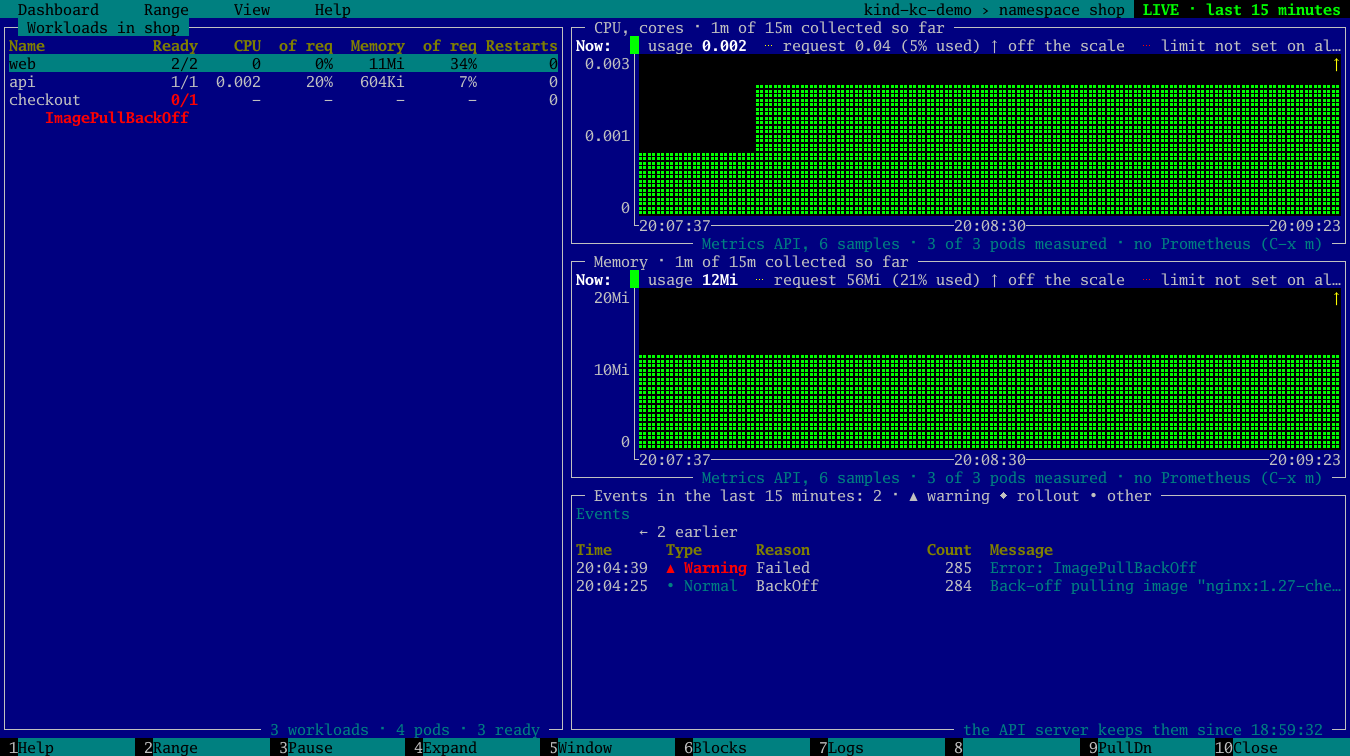
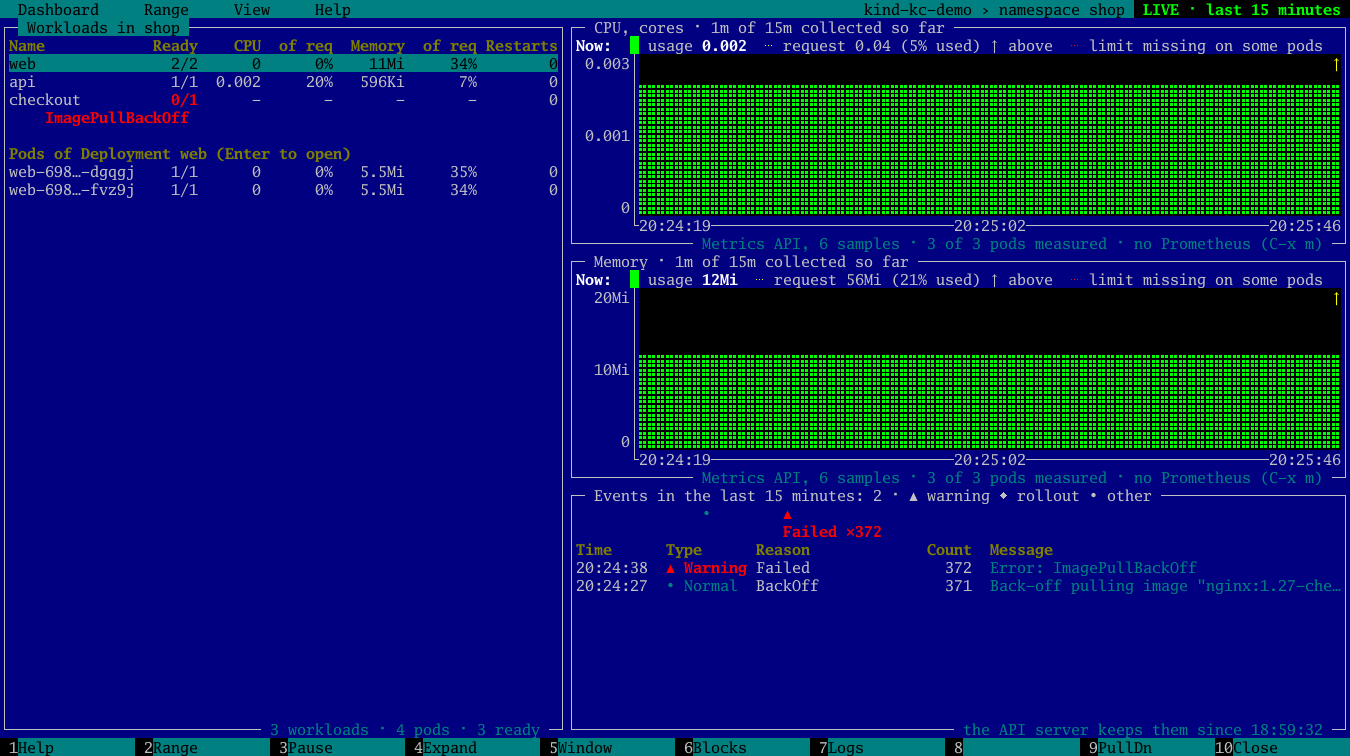
docs: refresh ADR 0321 and the dashboard screenshots

diff --git a/docs/adr/0321-dashboard-native-look.md b/docs/adr/0321-dashboard-native-look.md
@@ -38,20 +38,20 @@ The screen of a namespace on a kind cluster, a minute after opening:
 ```
   Dashboard     Range     View     Help                                                         kind-kc-demo › namespace shop  LIVE · last 15 minutes
 ┌─ Workloads in shop ─────────────────────────────────────────┐┌─ CPU, cores · 1m of 15m collected so far ───────────────────────────────────────────┐
-│Name            Ready    CPU  of req  Memory  of req Restarts││Now:  █ usage 0.002  ┄ request 0.04 (5% used) ↑ off the scale  ┄ limit not set on al…│
+│Name            Ready    CPU  of req  Memory  of req Restarts││Now:  █ usage 0.002  ┄ request 0.04 (5% used) ↑ above  ┄ limit missing on some pods  │
 │web               2/2      0      0%    11Mi     34%        0││ 0.003│                                                                             ↑│
-│api               1/1  0.002     20%   604Ki      7%        0││      │             ⣀⣀⣀⣀⣀⣀⣀⣀⣀⣀⣀⣀⣀⣀⣀⣀⣀⣀⣀⣀⣀⣀⣀⣀⣀⣀⣀⣀⣀⣀⣀⣀⣀⣀⣀⣀⣀⣀⣀⣀⣀⣀⣀⣀⣀⣀⣀⣀⣀⣀⣀⣀⣀⣀⣀⣀⣀⣀⣀⣀⣀⣀⣀⣀⣀│
-│checkout          0/1      -       -       -       -        0││      │             ⣿⣿⣿⣿⣿⣿⣿⣿⣿⣿⣿⣿⣿⣿⣿⣿⣿⣿⣿⣿⣿⣿⣿⣿⣿⣿⣿⣿⣿⣿⣿⣿⣿⣿⣿⣿⣿⣿⣿⣿⣿⣿⣿⣿⣿⣿⣿⣿⣿⣿⣿⣿⣿⣿⣿⣿⣿⣿⣿⣿⣿⣿⣿⣿⣿│
-│  ⚠ ImagePullBackOff                                         ││      │             ⣿⣿⣿⣿⣿⣿⣿⣿⣿⣿⣿⣿⣿⣿⣿⣿⣿⣿⣿⣿⣿⣿⣿⣿⣿⣿⣿⣿⣿⣿⣿⣿⣿⣿⣿⣿⣿⣿⣿⣿⣿⣿⣿⣿⣿⣿⣿⣿⣿⣿⣿⣿⣿⣿⣿⣿⣿⣿⣿⣿⣿⣿⣿⣿⣿│
-│                                                             ││ 0.001│             ⣿⣿⣿⣿⣿⣿⣿⣿⣿⣿⣿⣿⣿⣿⣿⣿⣿⣿⣿⣿⣿⣿⣿⣿⣿⣿⣿⣿⣿⣿⣿⣿⣿⣿⣿⣿⣿⣿⣿⣿⣿⣿⣿⣿⣿⣿⣿⣿⣿⣿⣿⣿⣿⣿⣿⣿⣿⣿⣿⣿⣿⣿⣿⣿⣿│
-│                                                             ││      │⣤⣤⣤⣤⣤⣤⣤⣤⣤⣤⣤⣤⣤⣿⣿⣿⣿⣿⣿⣿⣿⣿⣿⣿⣿⣿⣿⣿⣿⣿⣿⣿⣿⣿⣿⣿⣿⣿⣿⣿⣿⣿⣿⣿⣿⣿⣿⣿⣿⣿⣿⣿⣿⣿⣿⣿⣿⣿⣿⣿⣿⣿⣿⣿⣿⣿⣿⣿⣿⣿⣿⣿⣿⣿⣿⣿⣿⣿│
-│                                                             ││      │⣿⣿⣿⣿⣿⣿⣿⣿⣿⣿⣿⣿⣿⣿⣿⣿⣿⣿⣿⣿⣿⣿⣿⣿⣿⣿⣿⣿⣿⣿⣿⣿⣿⣿⣿⣿⣿⣿⣿⣿⣿⣿⣿⣿⣿⣿⣿⣿⣿⣿⣿⣿⣿⣿⣿⣿⣿⣿⣿⣿⣿⣿⣿⣿⣿⣿⣿⣿⣿⣿⣿⣿⣿⣿⣿⣿⣿⣿│
-│                                                             ││      │⣿⣿⣿⣿⣿⣿⣿⣿⣿⣿⣿⣿⣿⣿⣿⣿⣿⣿⣿⣿⣿⣿⣿⣿⣿⣿⣿⣿⣿⣿⣿⣿⣿⣿⣿⣿⣿⣿⣿⣿⣿⣿⣿⣿⣿⣿⣿⣿⣿⣿⣿⣿⣿⣿⣿⣿⣿⣿⣿⣿⣿⣿⣿⣿⣿⣿⣿⣿⣿⣿⣿⣿⣿⣿⣿⣿⣿⣿│
+│api               1/1  0.002     20%   596Ki      7%        0││      │⣀⣀⣀⣀⣀⣀⣀⣀⣀⣀⣀⣀⣀⣀⣀⣀⣀⣀⣀⣀⣀⣀⣀⣀⣀⣀⣀⣀⣀⣀⣀⣀⣀⣀⣀⣀⣀⣀⣀⣀⣀⣀⣀⣀⣀⣀⣀⣀⣀⣀⣀⣀⣀⣀⣀⣀⣀⣀⣀⣀⣀⣀⣀⣀⣀⣀⣀⣀⣀⣀⣀⣀⣀⣀⣀⣀⣀⣀│
+│checkout          0/1      -       -       -       -        0││      │⣿⣿⣿⣿⣿⣿⣿⣿⣿⣿⣿⣿⣿⣿⣿⣿⣿⣿⣿⣿⣿⣿⣿⣿⣿⣿⣿⣿⣿⣿⣿⣿⣿⣿⣿⣿⣿⣿⣿⣿⣿⣿⣿⣿⣿⣿⣿⣿⣿⣿⣿⣿⣿⣿⣿⣿⣿⣿⣿⣿⣿⣿⣿⣿⣿⣿⣿⣿⣿⣿⣿⣿⣿⣿⣿⣿⣿⣿│
+│  ⚠ ImagePullBackOff                                         ││      │⣿⣿⣿⣿⣿⣿⣿⣿⣿⣿⣿⣿⣿⣿⣿⣿⣿⣿⣿⣿⣿⣿⣿⣿⣿⣿⣿⣿⣿⣿⣿⣿⣿⣿⣿⣿⣿⣿⣿⣿⣿⣿⣿⣿⣿⣿⣿⣿⣿⣿⣿⣿⣿⣿⣿⣿⣿⣿⣿⣿⣿⣿⣿⣿⣿⣿⣿⣿⣿⣿⣿⣿⣿⣿⣿⣿⣿⣿│
+│                                                             ││ 0.001│⣿⣿⣿⣿⣿⣿⣿⣿⣿⣿⣿⣿⣿⣿⣿⣿⣿⣿⣿⣿⣿⣿⣿⣿⣿⣿⣿⣿⣿⣿⣿⣿⣿⣿⣿⣿⣿⣿⣿⣿⣿⣿⣿⣿⣿⣿⣿⣿⣿⣿⣿⣿⣿⣿⣿⣿⣿⣿⣿⣿⣿⣿⣿⣿⣿⣿⣿⣿⣿⣿⣿⣿⣿⣿⣿⣿⣿⣿│
+│Pods of Deployment web (Enter to open)                       ││      │⣿⣿⣿⣿⣿⣿⣿⣿⣿⣿⣿⣿⣿⣿⣿⣿⣿⣿⣿⣿⣿⣿⣿⣿⣿⣿⣿⣿⣿⣿⣿⣿⣿⣿⣿⣿⣿⣿⣿⣿⣿⣿⣿⣿⣿⣿⣿⣿⣿⣿⣿⣿⣿⣿⣿⣿⣿⣿⣿⣿⣿⣿⣿⣿⣿⣿⣿⣿⣿⣿⣿⣿⣿⣿⣿⣿⣿⣿│
+│web-698…-dgqgj    1/1      0      0%   5.5Mi     35%        0││      │⣿⣿⣿⣿⣿⣿⣿⣿⣿⣿⣿⣿⣿⣿⣿⣿⣿⣿⣿⣿⣿⣿⣿⣿⣿⣿⣿⣿⣿⣿⣿⣿⣿⣿⣿⣿⣿⣿⣿⣿⣿⣿⣿⣿⣿⣿⣿⣿⣿⣿⣿⣿⣿⣿⣿⣿⣿⣿⣿⣿⣿⣿⣿⣿⣿⣿⣿⣿⣿⣿⣿⣿⣿⣿⣿⣿⣿⣿│
+│web-698…-fvz9j    1/1      0      0%   5.5Mi     34%        0││      │⣿⣿⣿⣿⣿⣿⣿⣿⣿⣿⣿⣿⣿⣿⣿⣿⣿⣿⣿⣿⣿⣿⣿⣿⣿⣿⣿⣿⣿⣿⣿⣿⣿⣿⣿⣿⣿⣿⣿⣿⣿⣿⣿⣿⣿⣿⣿⣿⣿⣿⣿⣿⣿⣿⣿⣿⣿⣿⣿⣿⣿⣿⣿⣿⣿⣿⣿⣿⣿⣿⣿⣿⣿⣿⣿⣿⣿⣿│
 │                                                             ││     0│⣿⣿⣿⣿⣿⣿⣿⣿⣿⣿⣿⣿⣿⣿⣿⣿⣿⣿⣿⣿⣿⣿⣿⣿⣿⣿⣿⣿⣿⣿⣿⣿⣿⣿⣿⣿⣿⣿⣿⣿⣿⣿⣿⣿⣿⣿⣿⣿⣿⣿⣿⣿⣿⣿⣿⣿⣿⣿⣿⣿⣿⣿⣿⣿⣿⣿⣿⣿⣿⣿⣿⣿⣿⣿⣿⣿⣿⣿│
-│                                                             ││      └20:07:37───────────────────────────20:08:30───────────────────────────20:09:23│
+│                                                             ││      └20:24:19───────────────────────────20:25:02───────────────────────────20:25:46│
 │                                                             │└───────────── Metrics API, 6 samples · 3 of 3 pods measured · no Prometheus (C-x m) ─┘
 │                                                             │┌─ Memory · 1m of 15m collected so far ───────────────────────────────────────────────┐
-│                                                             ││Now:  █ usage 12Mi  ┄ request 56Mi (21% used) ↑ off the scale  ┄ limit not set on al…│
+│                                                             ││Now:  █ usage 12Mi  ┄ request 56Mi (21% used) ↑ above  ┄ limit missing on some pods  │
 │                                                             ││  20Mi│                                                                             ↑│
 │                                                             ││      │                                                                              │
 │                                                             ││      │                                                                              │
@@ -61,14 +61,14 @@ The screen of a namespace on a kind cluster, a minute after opening:
 │                                                             ││      │⣿⣿⣿⣿⣿⣿⣿⣿⣿⣿⣿⣿⣿⣿⣿⣿⣿⣿⣿⣿⣿⣿⣿⣿⣿⣿⣿⣿⣿⣿⣿⣿⣿⣿⣿⣿⣿⣿⣿⣿⣿⣿⣿⣿⣿⣿⣿⣿⣿⣿⣿⣿⣿⣿⣿⣿⣿⣿⣿⣿⣿⣿⣿⣿⣿⣿⣿⣿⣿⣿⣿⣿⣿⣿⣿⣿⣿⣿│
 │                                                             ││      │⣿⣿⣿⣿⣿⣿⣿⣿⣿⣿⣿⣿⣿⣿⣿⣿⣿⣿⣿⣿⣿⣿⣿⣿⣿⣿⣿⣿⣿⣿⣿⣿⣿⣿⣿⣿⣿⣿⣿⣿⣿⣿⣿⣿⣿⣿⣿⣿⣿⣿⣿⣿⣿⣿⣿⣿⣿⣿⣿⣿⣿⣿⣿⣿⣿⣿⣿⣿⣿⣿⣿⣿⣿⣿⣿⣿⣿⣿│
 │                                                             ││     0│⣿⣿⣿⣿⣿⣿⣿⣿⣿⣿⣿⣿⣿⣿⣿⣿⣿⣿⣿⣿⣿⣿⣿⣿⣿⣿⣿⣿⣿⣿⣿⣿⣿⣿⣿⣿⣿⣿⣿⣿⣿⣿⣿⣿⣿⣿⣿⣿⣿⣿⣿⣿⣿⣿⣿⣿⣿⣿⣿⣿⣿⣿⣿⣿⣿⣿⣿⣿⣿⣿⣿⣿⣿⣿⣿⣿⣿⣿│
-│                                                             ││      └20:07:37───────────────────────────20:08:30───────────────────────────20:09:23│
+│                                                             ││      └20:24:19───────────────────────────20:25:02───────────────────────────20:25:46│
 │                                                             │└───────────── Metrics API, 6 samples · 3 of 3 pods measured · no Prometheus (C-x m) ─┘
 │                                                             │┌─ Events in the last 15 minutes: 2 · ▲ warning ◆ rollout • other ────────────────────┐
-│                                                             ││Events                                                                               │
-│                                                             ││       ← 2 earlier                                                                   │
+│                                                             ││              •        ▲                                                             │
+│                                                             ││                       Failed ×372                                                   │
 │                                                             ││Time      Type      Reason             Count  Message                                │
-│                                                             ││20:04:39  ▲ Warning Failed               285  Error: ImagePullBackOff                │
-│                                                             ││20:04:25  • Normal  BackOff              284  Back-off pulling image "nginx:1.27-che…│
+│                                                             ││20:24:38  ▲ Warning Failed               372  Error: ImagePullBackOff                │
+│                                                             ││20:24:27  • Normal  BackOff              371  Back-off pulling image "nginx:1.27-che…│
 │                                                             ││                                                                                     │
 │                                                             ││                                                                                     │
 │                                                             ││                                                                                     │
@@ -100,13 +100,15 @@ The screen of a namespace on a kind cluster, a minute after opening:
    selected row, `Backspace` (or the `..` row) goes up: pod, its
    workload, the namespace scope. Going up past the target the dashboard
    opened for replaces it with its parent. `Esc` keeps its order from
-   ADR 0252.
+   ADR 0252. When the workloads leave room in the list, the pods of the
+   selected one are listed under them (`models.UsageAmounts.PodRows`),
+   so a short namespace does not leave the column empty.
 3. **Usage against request and limit, per row.** Each row shows CPU and
    memory now and the share of the request in use (`of req`). Over the
    request is yellow; at 90% of the limit or more, red. Above each
    chart a legend says the same for the whole target in words:
-   `Now: █ usage 0.002  ┄ request 0.04 (5% used)  ┄ limit not set on all
-   pods`, with `over the request` and `near the limit` in the same
+   `Now: █ usage 0.002  ┄ request 0.04 (5% used) ↑ above  ┄ limit
+   missing on some pods`, with `over the request` and `near the limit` in the same
    colors.
 4. **Health next to usage.** Each row shows the ready pods and the
    restarts, and a second line names the problem when there is one: a
@@ -117,8 +119,8 @@ The screen of a namespace on a kind cluster, a minute after opening:
 5. **A scale that fits the usage.** The value axis fits the usage with
    a tenth of headroom, and a request or limit up to three times above
    it. A line further above is not drawn; an `↑` in its color at the top
-   right says it is above the chart, and the legend adds `↑ off the
-   scale` with its value. A usage of 0.002 against a request of 0.04
+   right says it is above the chart, and the legend adds `↑ above` after
+   its value. A usage of 0.002 against a request of 0.04
    fills the chart instead of one dot.
 6. **A time range that fits the data.** While the session history is
    shorter than the range, a session chart starts at its first sample
@@ -133,7 +135,9 @@ The screen of a namespace on a kind cluster, a minute after opening:
    the charts' time axis, and the line under it names the marks that
    fit, warnings first (`Failed ×285`). Before the oldest Event the API
    server keeps, it says `no Events kept before 18:59`; when a fitted
-   chart starts after some Events of the range, `← 2 earlier`. The list
+   chart starts after some Events of the range, `← 2 Events before the
+   chart starts`. The lane has no label of its own: the frame title
+   names it. The list
    has column headers: Time, Type, Reason, Object (from 100 columns),
    Count, Message. With the charts side by side, the lane follows the
    left chart's axis.
